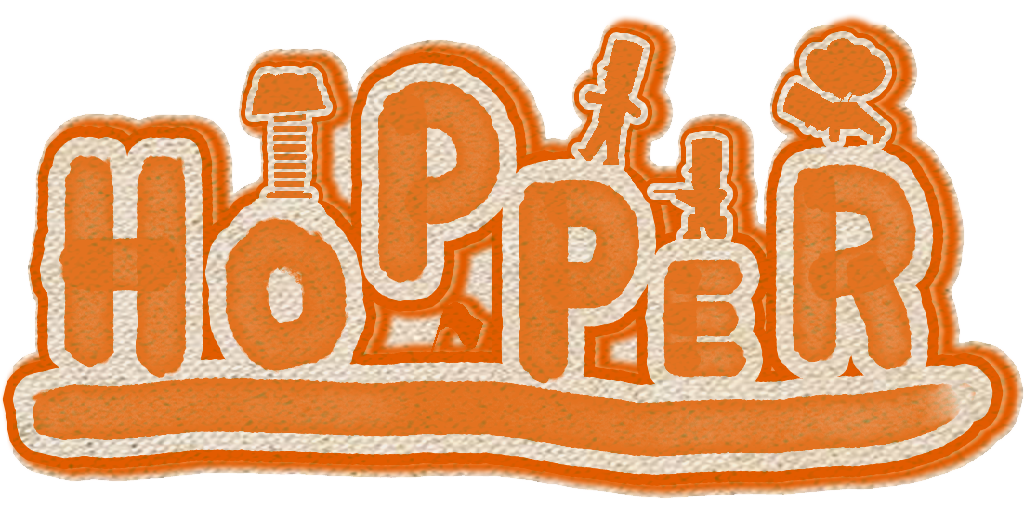
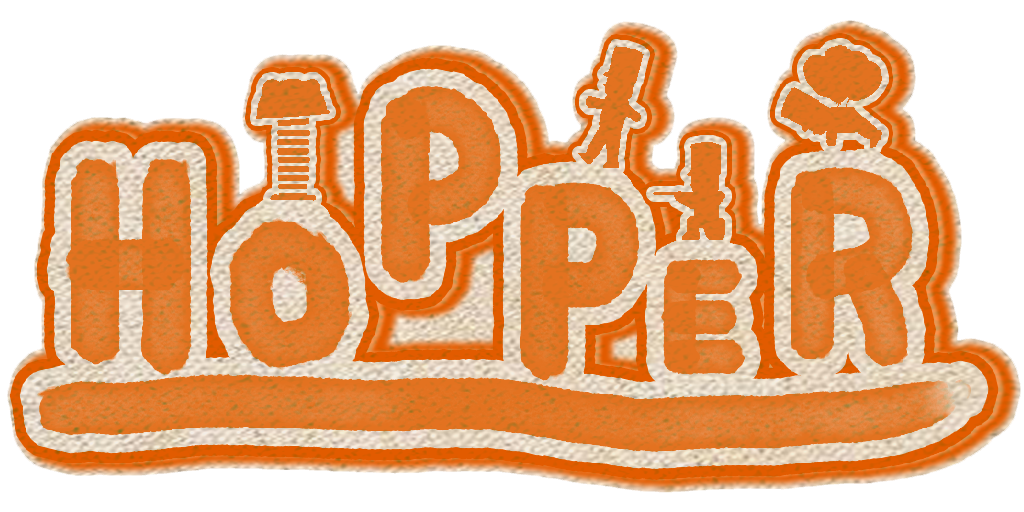
titleUI

Changed region(s): [[0.0, 0.0312, 1.0, 0.9688], [0.5625, 0.4375, 0.5938, 0.5]]

diff --git a/OpenSiv3D_0.6.31_marioLike/Title.cpp b/OpenSiv3D_0.6.31_marioLike/Title.cpp
@@ -7,9 +7,71 @@ Title::Title(const InitData& init):IScene(init)
 
 void Title::update()
 {
-	//LoadMap();
+	if (KeyEnter.up())selectFlag = true;
+	if (stageNum < 2 && KeyS.up()|| KeyDown.up())stageNum++;
+	if (stageNum > 0 && KeyW.up()|| KeyUp.up())stageNum--;
+	if (KeyEnter.up())selectFlag = true;
+	if (KeyEnter.pressed()&&selectFlag)changeScene(GameState::Game);
 }
 
 void Title::draw() const
-{	
+{
+
+	TextureAsset(U"back")
+		.scaled(8.0, 4.3)
+		.draw(0, 0);
+	const double t = Min(stopwatch.sF() * 0.8, 1.0);
+	const double e = EaseOutBounce(t);
+	const double ee = EaseOutSine(t);
+	const Vec2 pos = start.lerp(goal, e);
+	const Vec2 posSine = start.lerp(goal, ee);
+	TextureAsset(U"titleLogo")
+		.draw(posSine.x, pos.y);
+
+	if (!selectFlag) {
+		int time = Scene::Time();
+		if (time % 2 == 0) {
+			FontAsset(U"Title")(U"Start to Enter")
+				.drawAt(Scene::Center().x,Scene::Center().y*1.5, Palette::Orange);
+		}
+
+	}
+	else {
+		FontAsset(U"Title")(U"Stage 1")
+			.drawAt(Scene::Center().x, 700, Palette::Orange);
+		FontAsset(U"Title")(U"Stage 2")
+			.drawAt(Scene::Center().x, 800, Palette::Orange);
+		FontAsset(U"Title")(U"Stage 3")
+			.drawAt(Scene::Center().x, 900, Palette::Orange);
+
+
+
+		
+
+		switch (stageNum)
+		{
+		case 0:
+		{
+			TextureAsset(U"select")(0, 0, 248)
+				.scaled(0.3, 0.3)
+				.drawAt(770, 700);
+			break;
+		}
+		case 1:
+		{
+			TextureAsset(U"select")(0, 0, 248)
+				.scaled(0.3, 0.3)
+				.drawAt(770, 800);
+			break;
+		}
+		case 2:
+		{
+			TextureAsset(U"select")(0, 0, 248)
+				.scaled(0.3, 0.3)
+				.drawAt(770, 900);
+			break;
+		}
+		}
+
+	}
 }

diff --git a/OpenSiv3D_0.6.31_marioLike/Main.cpp b/OpenSiv3D_0.6.31_marioLike/Main.cpp
@@ -16,7 +16,11 @@ void Main()
 	//TextureAsset::Register(U"dummy256", U"Image/256x256.png");
 	//TextureAsset::Register(U"dummyPlayer", U"Image/player.png",TextureDesc::Mipped);
 	//TextureAsset::Register(U"dummychip", U"Image/sample.png");
+	FontAsset::Register(U"Title", 60, FileSystem::GetFolderPath(SpecialFolder::SystemFonts) + U"UDDigiKyokashoN-B.ttc");
 	TextureAsset::Register(U"player", U"Image/costomPlayer.png",TextureDesc::Mipped);
+	TextureAsset::Register(U"titleLogo", U"Image/title.png",TextureDesc::Mipped);
+	TextureAsset::Register(U"back", U"Image/back_ground.png",TextureDesc::Mipped);
+	TextureAsset::Register(U"select", U"Image/select.png",TextureDesc::Mipped);
 	App manager;
 	manager.add<Title>(GameState::Title);
 	manager.add<Game>(GameState::Game);
@@ -24,7 +28,7 @@ void Main()
 	manager.add<Gameover>(GameState::Gameover);
 
 	// ゲームシーンから開始
-	manager.init(GameState::Game);
+	manager.init(GameState::Title);
 
 	while (System::Update())
 	{

diff --git a/OpenSiv3D_0.6.31_marioLike/Title.h b/OpenSiv3D_0.6.31_marioLike/Title.h
@@ -1,5 +1,6 @@
 #pragma once
 #include "common.h"
+
 class Title : public App::Scene
 {
 public:
@@ -11,5 +12,13 @@ public:
 	void draw() const override;
 
 private:
+	Vec2 start{ -1024,-512 };
+	Vec2 goal{ 478,100 };
+	Stopwatch stopwatch{ StartImmediately::Yes };
+	bool selectFlag=false;
+	Vec2 selectPos;
+	int stageNum = 0;
 };
+
+
 
